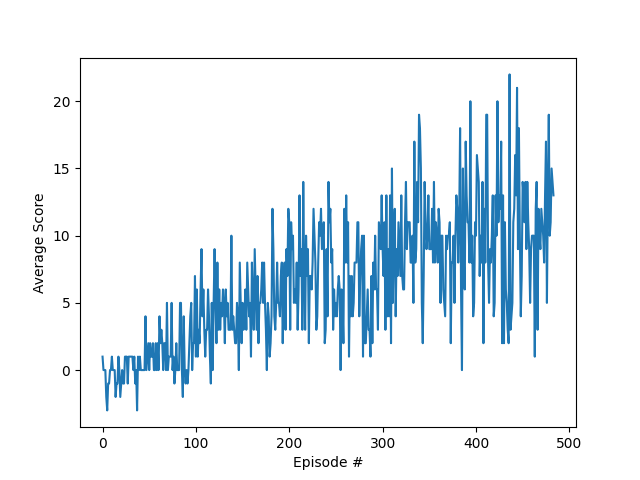
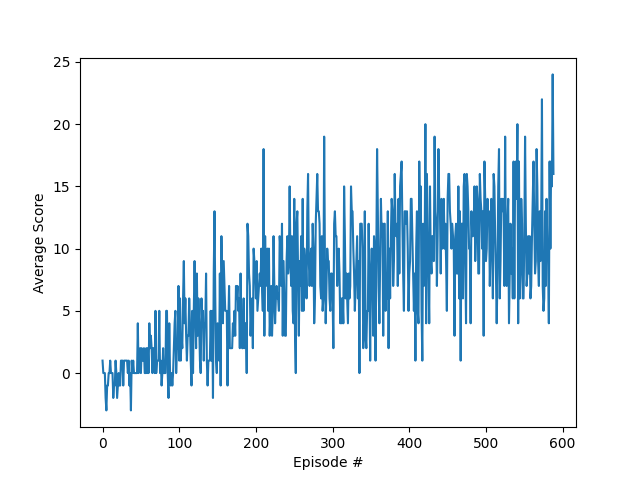
comman line argument parsing

diff --git a/runbctraining.py b/runbctraining.py
@@ -55,47 +55,54 @@ def DeepQLearnTrain(agent, n_episodes=100, print_range=10, eps_start=1.0, eps_en
             
     return scores, i, np.mean(scores_window)
 
-env = UnityEnvironment(file_name="D:/deep-reinforcement-learning/p1_navigation/Banana_Windows_x86_64/Banana.exe")
 
 
-# get the default brain
-brain_name = env.brain_names[0]
-brain = env.brains[brain_name]
+if __name__ == '__main__':
 
-# reset the environment
-env_info = env.reset(train_mode=True)[brain_name]
-
-# number of agents in the environment
-print('Number of agents:', len(env_info.agents))
-
-# number of actions
-action_size = brain.vector_action_space_size
-print('Number of actions:', action_size)
-
-# examine the state space 
-state = env_info.vector_observations[0]
-print('States look like:', state)
-state_size = len(state)
-print('States have length:', state_size)
+    if len(sys.argv) == 2:
+        env = UnityEnvironment(file_name=sys.argv[1])
+    else :
+        env = UnityEnvironment(file_name="D:/deep-reinforcement-learning/p1_navigation/Banana_Windows_x86_64/Banana.exe")
 
 
-env_info = env.reset(train_mode=True)[brain_name]
+    # get the default brain
+    brain_name = env.brain_names[0]
+    brain = env.brains[brain_name]
 
-agent = Agent(state_size=state_size, action_size=action_size, seed=199, nb_hidden=(64, 64),
-              learning_rate=0.001, memory_size=int(1e6), prioritized_memory=False, batch_size=64,
-              gamma=0.9, small_eps=0.03, update_frequency=4)
+    # reset the environment
+    env_info = env.reset(train_mode=True)[brain_name]
 
-scores, episodes, last_avg_score = DeepQLearnTrain(agent, n_episodes=600, early_stop=13, verbose=True)
+    # number of agents in the environment
+    print('Number of agents:', len(env_info.agents))
 
-agent.save_model("bcmodel.pt")
+    # number of actions
+    action_size = brain.vector_action_space_size
+    print('Number of actions:', action_size)
 
-# plot the scores
-fig = plt.figure()
-ax = fig.add_subplot(111)
-plt.plot(np.arange(len(scores)), scores)
-plt.ylabel('Average Score')
-plt.xlabel('Episode #')
-# plt.show()
+    # examine the state space 
+    state = env_info.vector_observations[0]
+    print('States look like:', state)
+    state_size = len(state)
+    print('States have length:', state_size)
 
-plt.savefig('bctraining.png')
+
+    env_info = env.reset(train_mode=True)[brain_name]
+
+    agent = Agent(state_size=state_size, action_size=action_size, seed=199, nb_hidden=(64, 64),
+                learning_rate=0.001, memory_size=int(1e6), prioritized_memory=False, batch_size=64,
+                gamma=0.9, small_eps=0.03, update_frequency=4)
+
+    scores, episodes, last_avg_score = DeepQLearnTrain(agent, n_episodes=600, early_stop=13, verbose=True)
+
+    agent.save_model("bcmodel.pt")
+
+    # plot the scores
+    fig = plt.figure()
+    ax = fig.add_subplot(111)
+    plt.plot(np.arange(len(scores)), scores)
+    plt.ylabel('Average Score')
+    plt.xlabel('Episode #')
+    # plt.show()
+
+    plt.savefig('bctraining.png')
 

diff --git a/bcnetwork.py b/bcnetwork.py
@@ -17,9 +17,9 @@ class DeepQNetwork(nn.Module):
         """
         super(DeepQNetwork, self).__init__()
         self.seed = torch.manual_seed(seed)
-        self.fc1 = nn.Linear(state_size, 64, bias=False)
-        self.fc2 = nn.Linear(64, 64, bias=False)
-        self.fc3 = nn.Linear(64, action_size, bias=False)
+        self.fc1 = nn.Linear(state_size, 128, bias=False)
+        self.fc2 = nn.Linear(128, 128, bias=False)
+        self.fc3 = nn.Linear(128, action_size, bias=False)
 
     def forward(self, state):
         x = F.relu(self.fc1(state))
